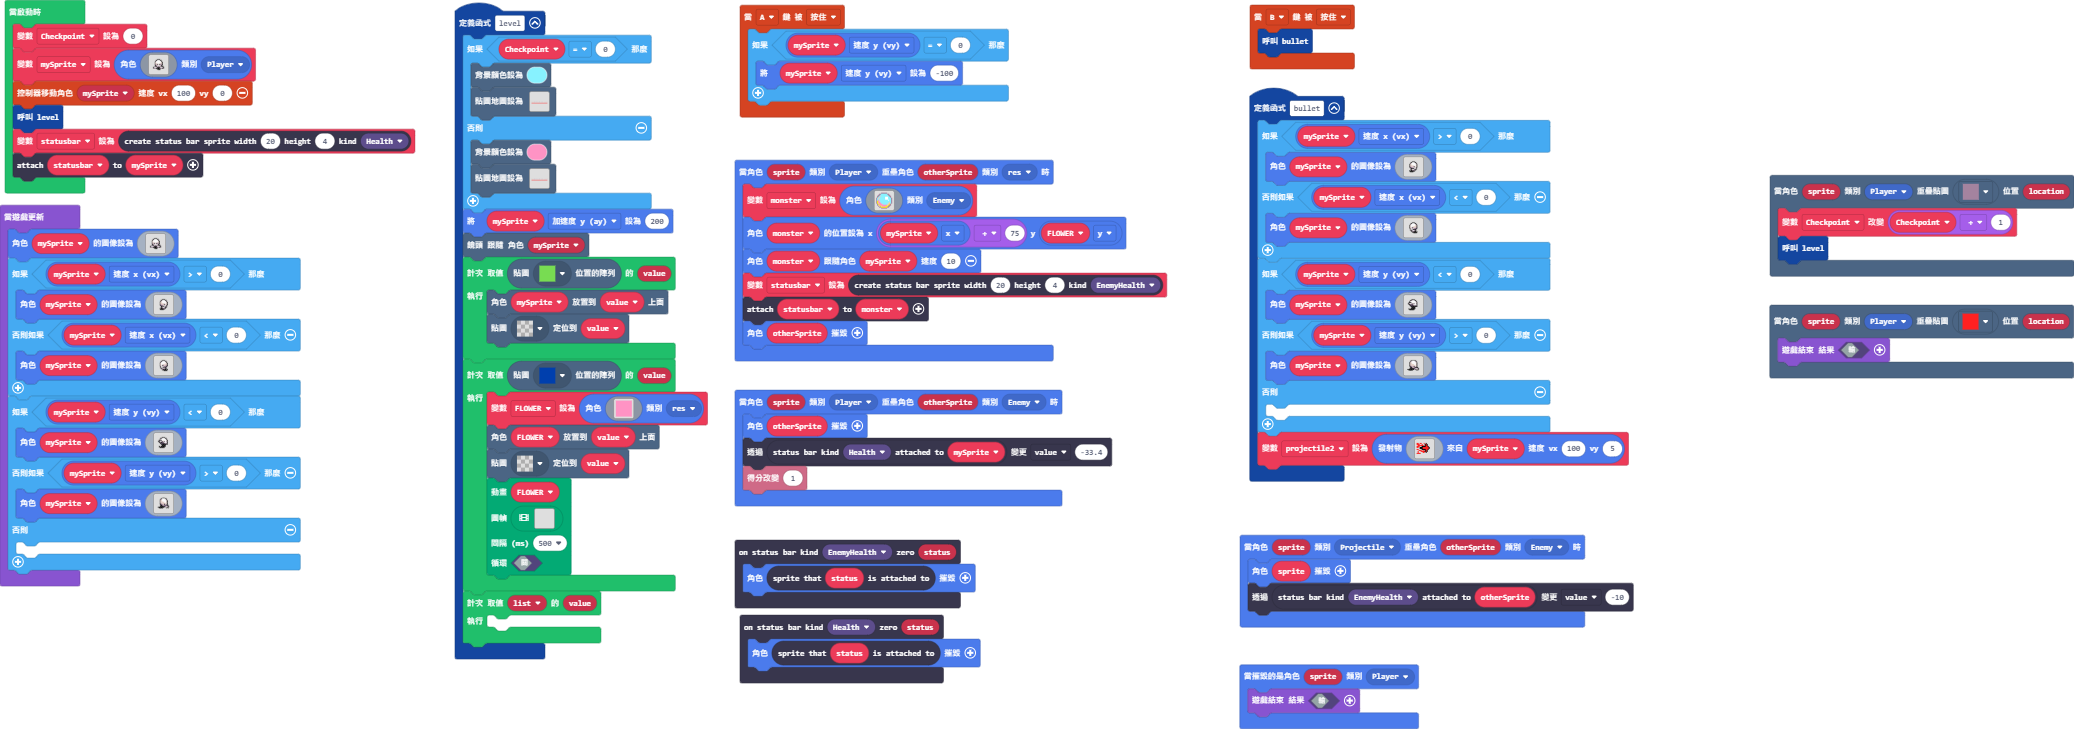
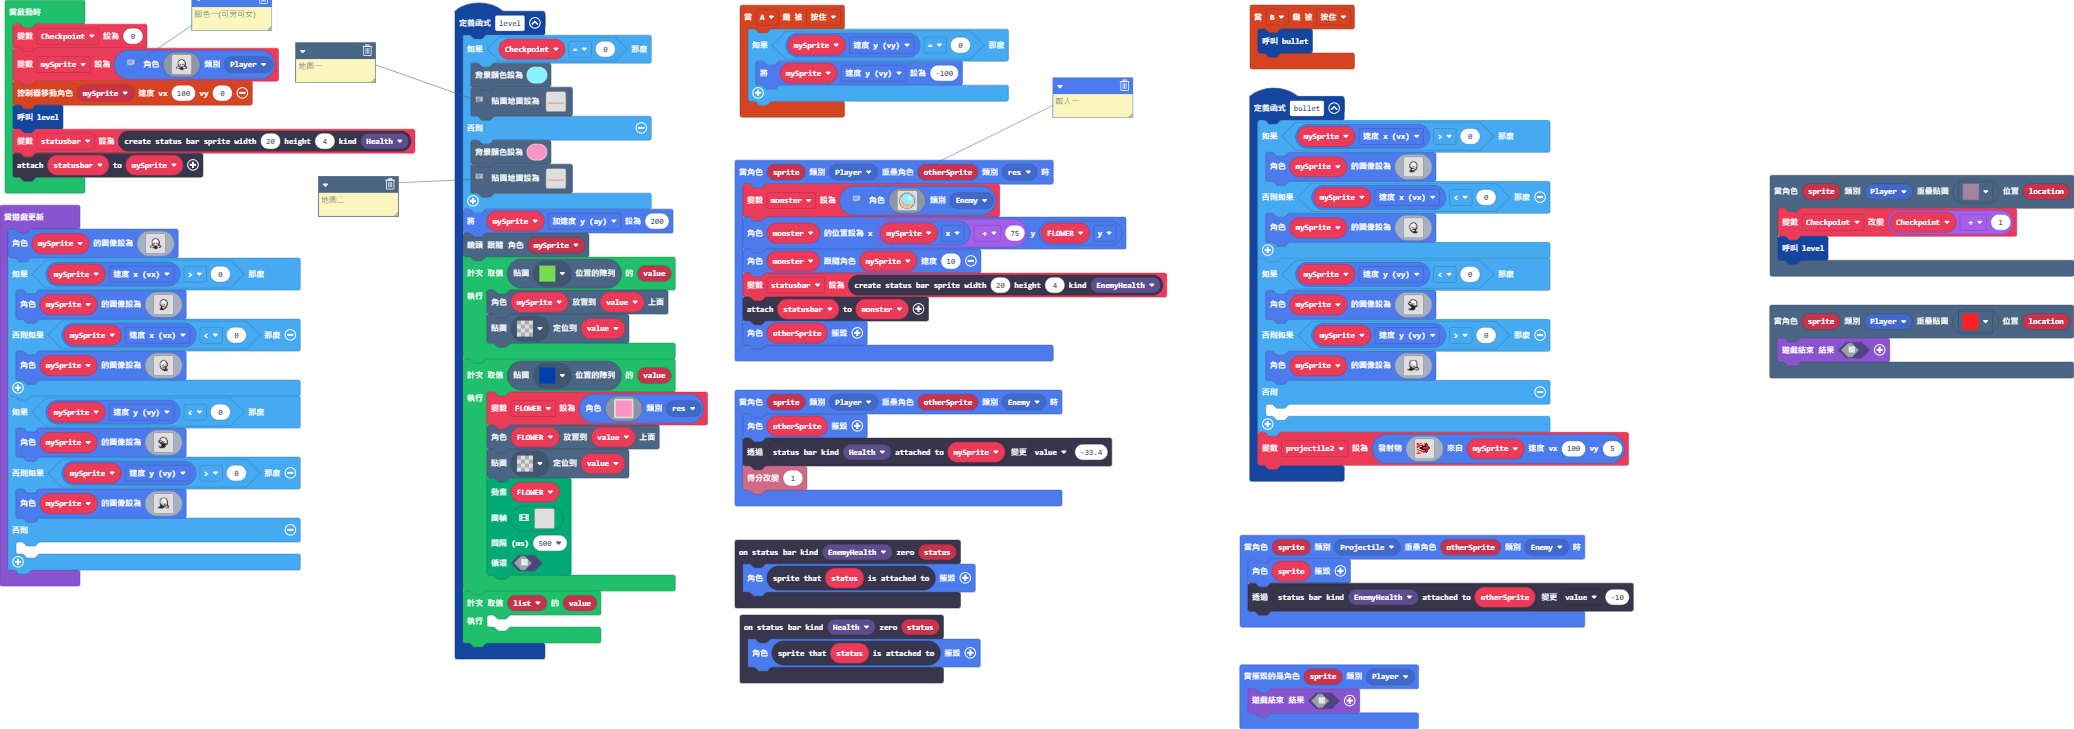
更新 main.blocks, main.ts

diff --git a/main.ts b/main.ts
@@ -10,9 +10,11 @@ controller.A.onEvent(ControllerButtonEvent.Pressed, function () {
 function level () {
     if (Checkpoint == 0) {
         scene.setBackgroundColor(9)
+        // 地圖一
         tiles.setTilemap(tilemap`層級1`)
     } else {
         scene.setBackgroundColor(3)
+        // 地圖二
         tiles.setTilemap(tilemap`層級1`)
     }
     mySprite.ay = 200
@@ -219,6 +221,7 @@ scene.onOverlapTile(SpriteKind.Player, assets.tile`myTile2`, function (sprite, l
     level()
 })
 sprites.onOverlap(SpriteKind.Player, SpriteKind.res, function (sprite, otherSprite) {
+    // 敵人一
     monster = sprites.create(img`
         . . . . . b b b b b b . . . . . 
         . . . b b 9 9 9 9 9 9 b b . . . 
@@ -262,6 +265,7 @@ let statusbar: StatusBarSprite = null
 let mySprite: Sprite = null
 let Checkpoint = 0
 Checkpoint = 0
+// 腳色一(可男可女)
 mySprite = sprites.create(img`
     ........................
     ........................
